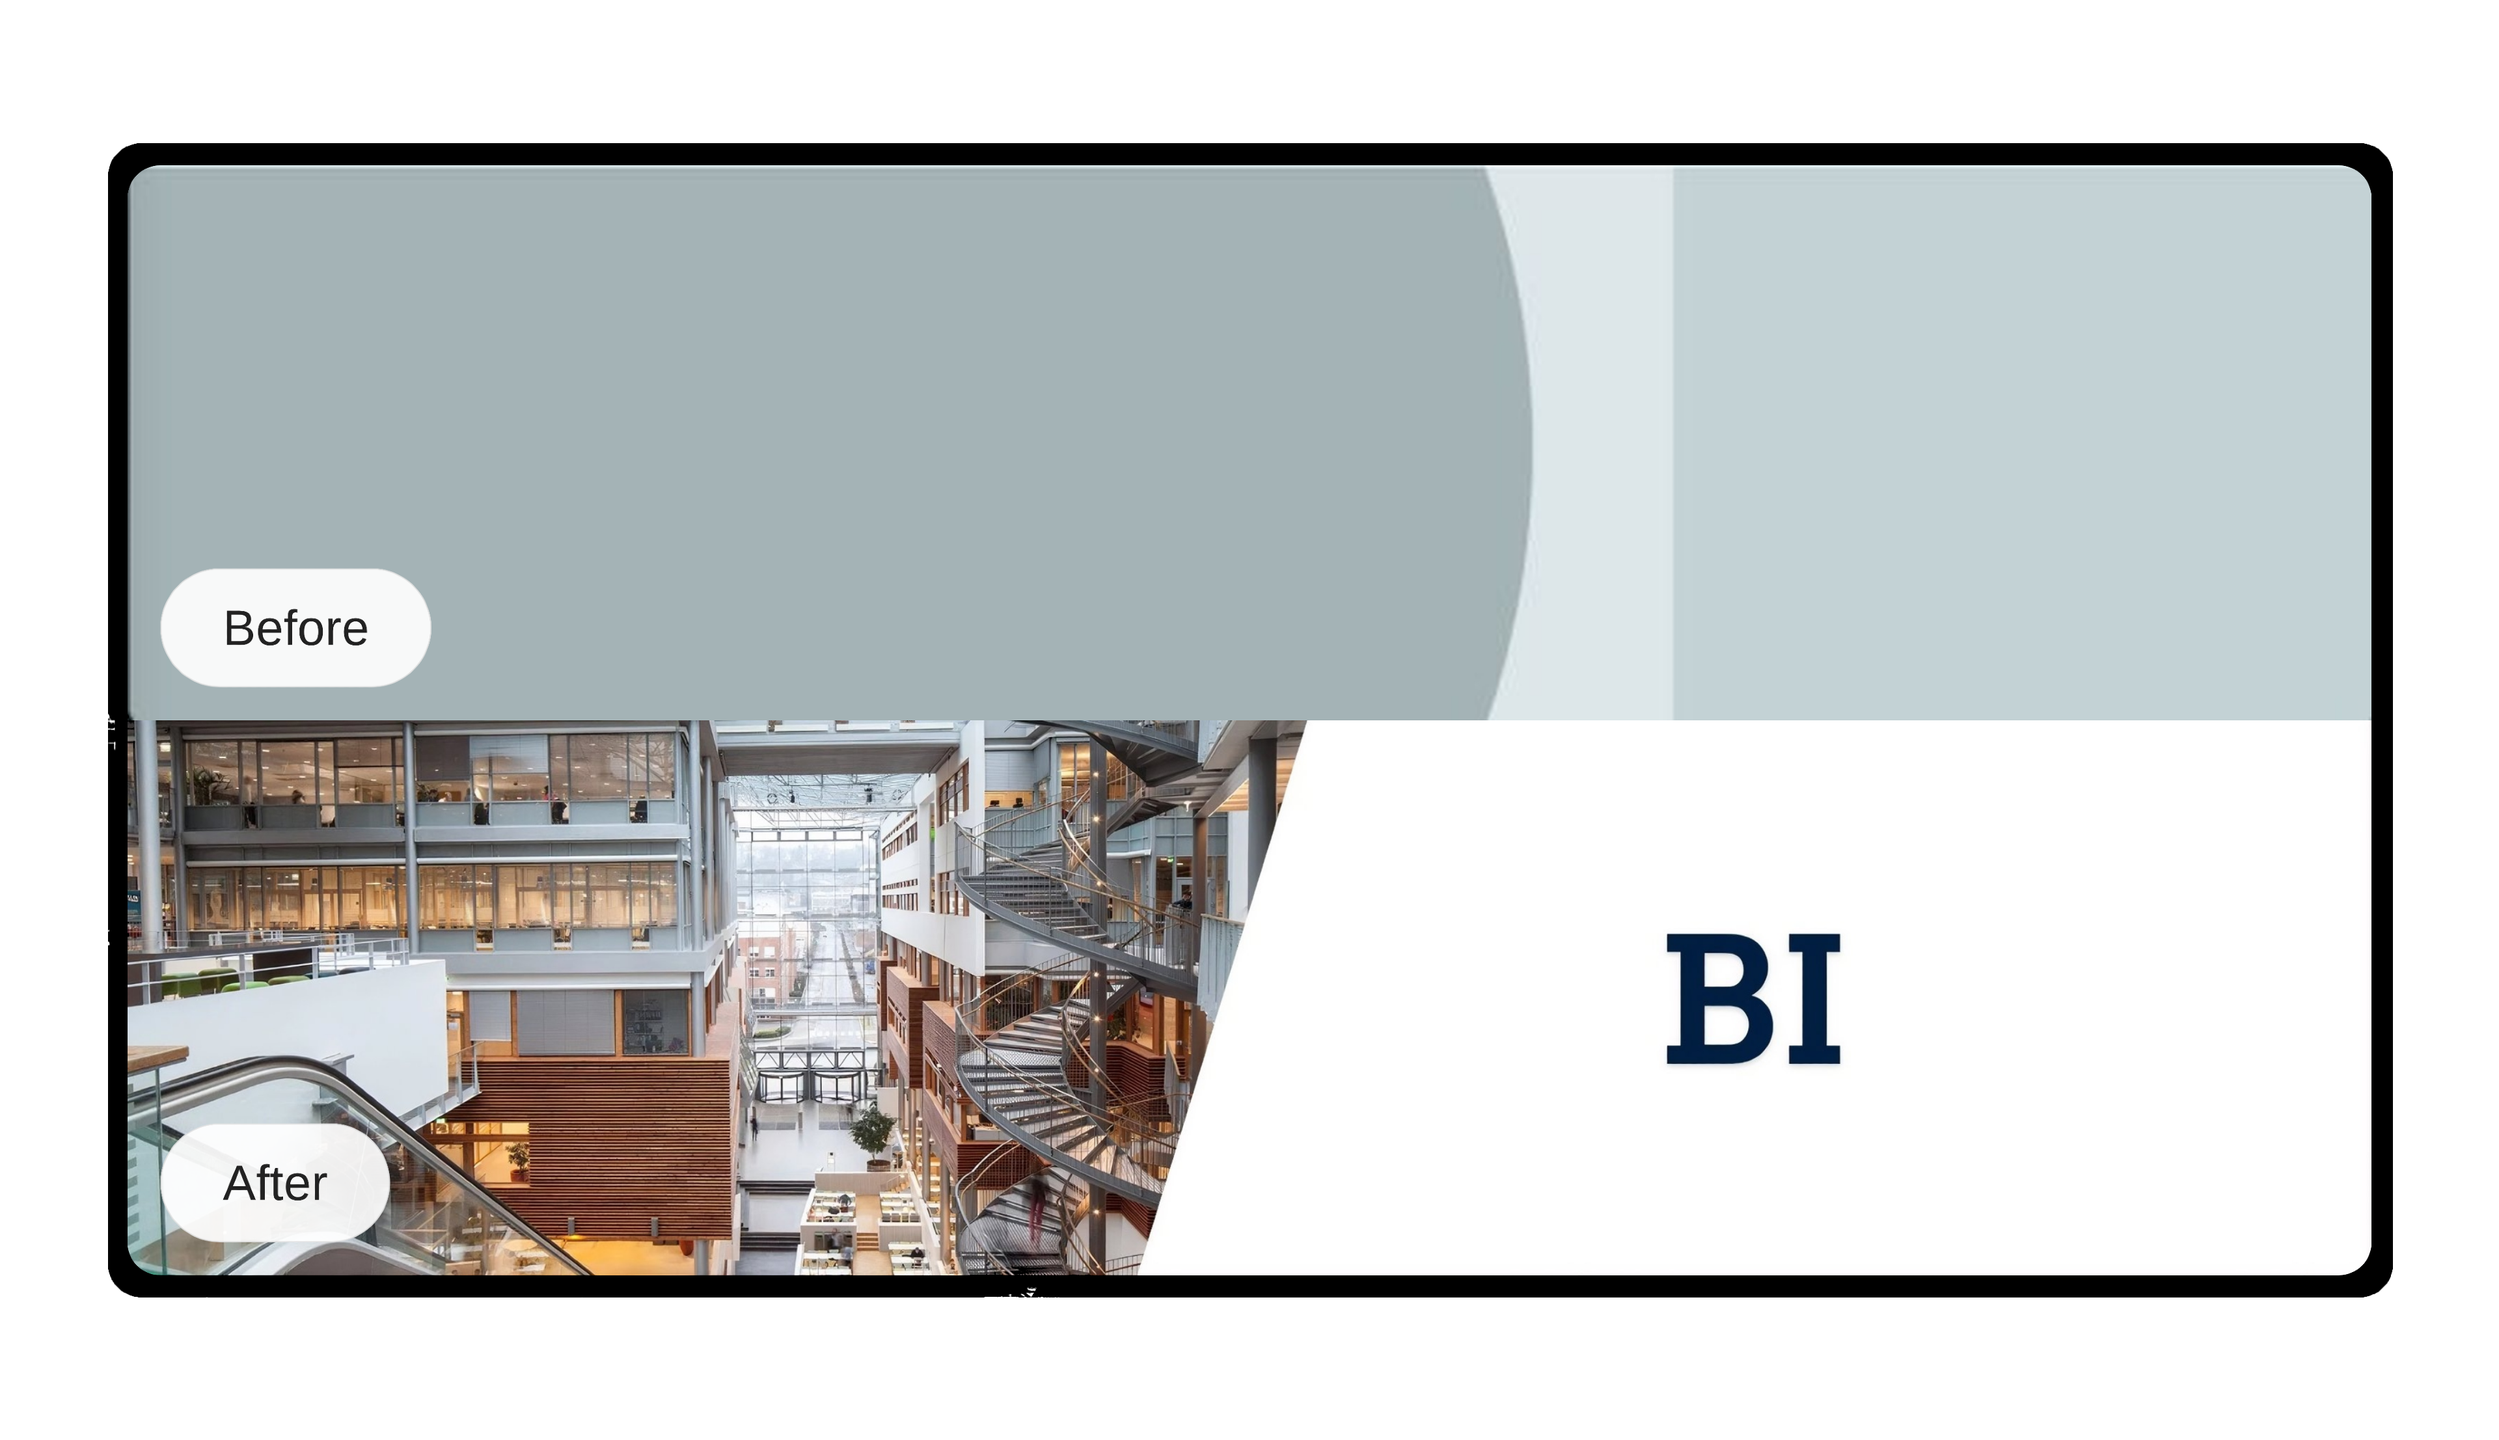
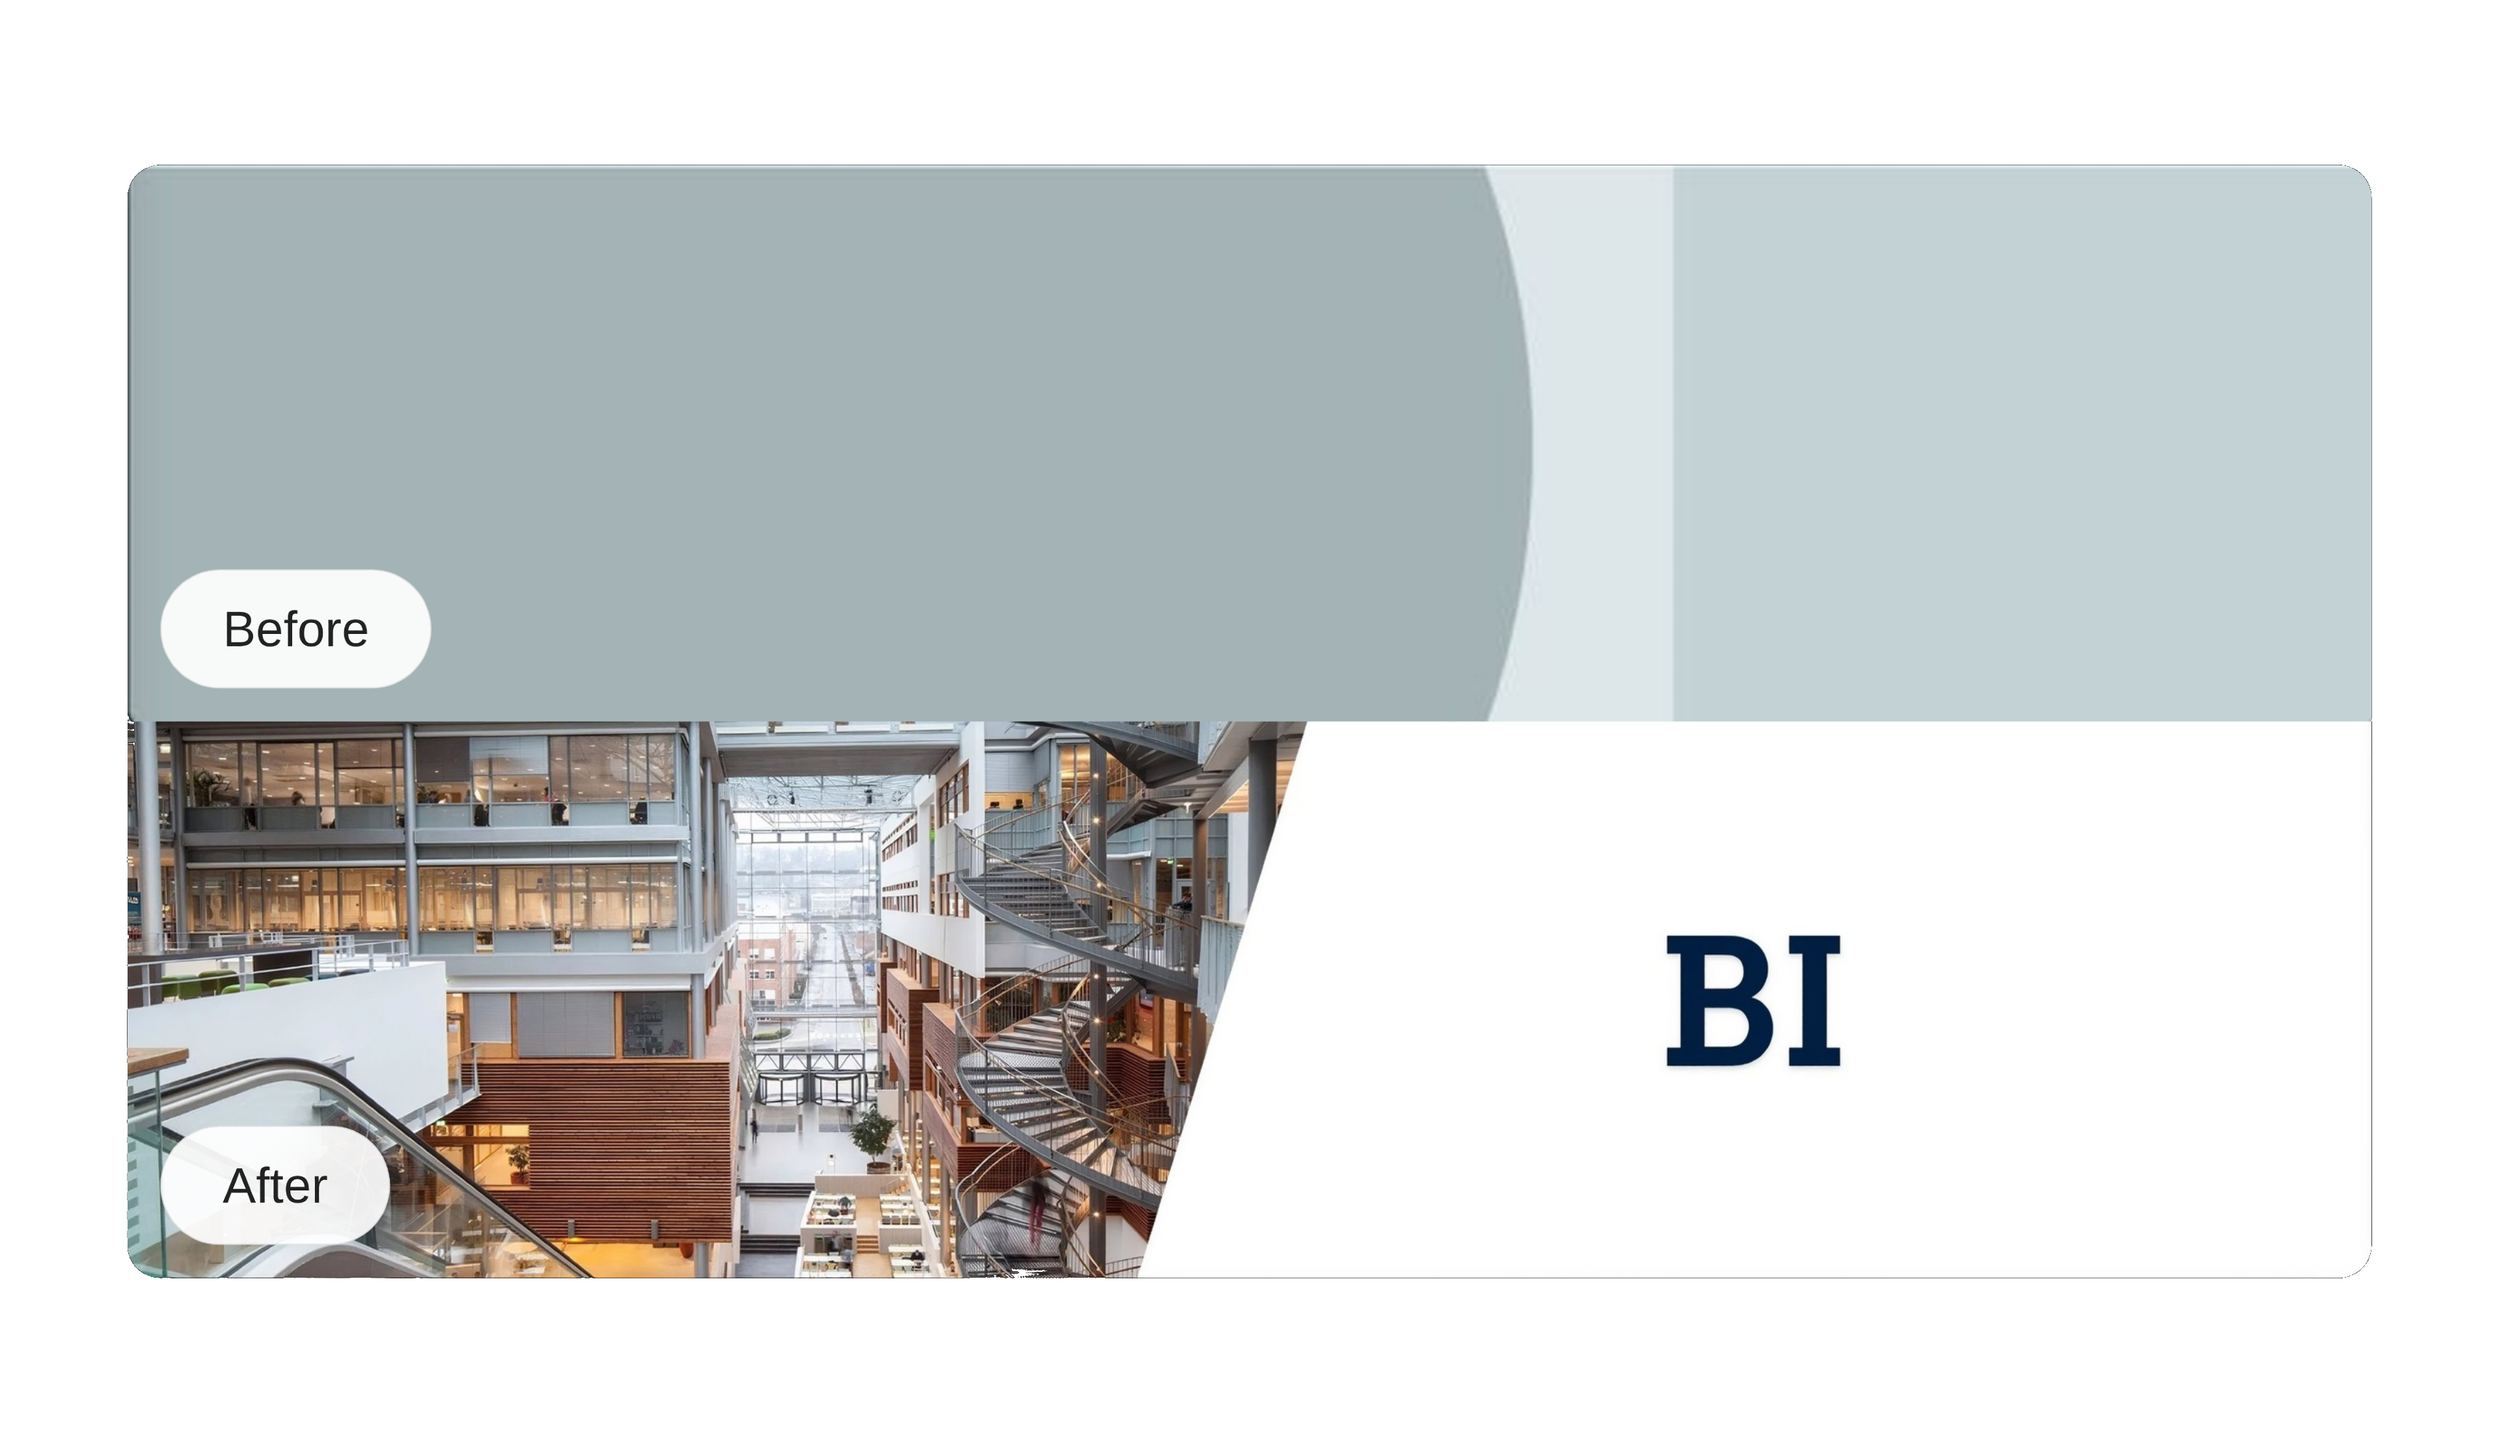
Sync hero text blue color with site-wide blue-600

Changed region(s): [[0.0312, 0.0935, 0.9688, 0.9042], [0.2188, 0.7483, 0.25, 0.7795]]

diff --git a/src/app/page.tsx b/src/app/page.tsx
@@ -64,7 +64,7 @@ export default function Home() {
                 <h1 className="font-lexend font-extrabold leading-[1.1] tracking-tight text-[#1a1c20]
                   text-[32px] sm:text-[42px] md:text-[50px] lg:text-[60px] mb-10">
                   The perfect finishing touch <br />
-                  for <span className="text-[#0A66C2]">your profile.</span>
+                  for <span className="text-blue-600">your profile.</span>
                 </h1>
 
                 <div className="w-full lg:w-max flex justify-center lg:justify-start group">
